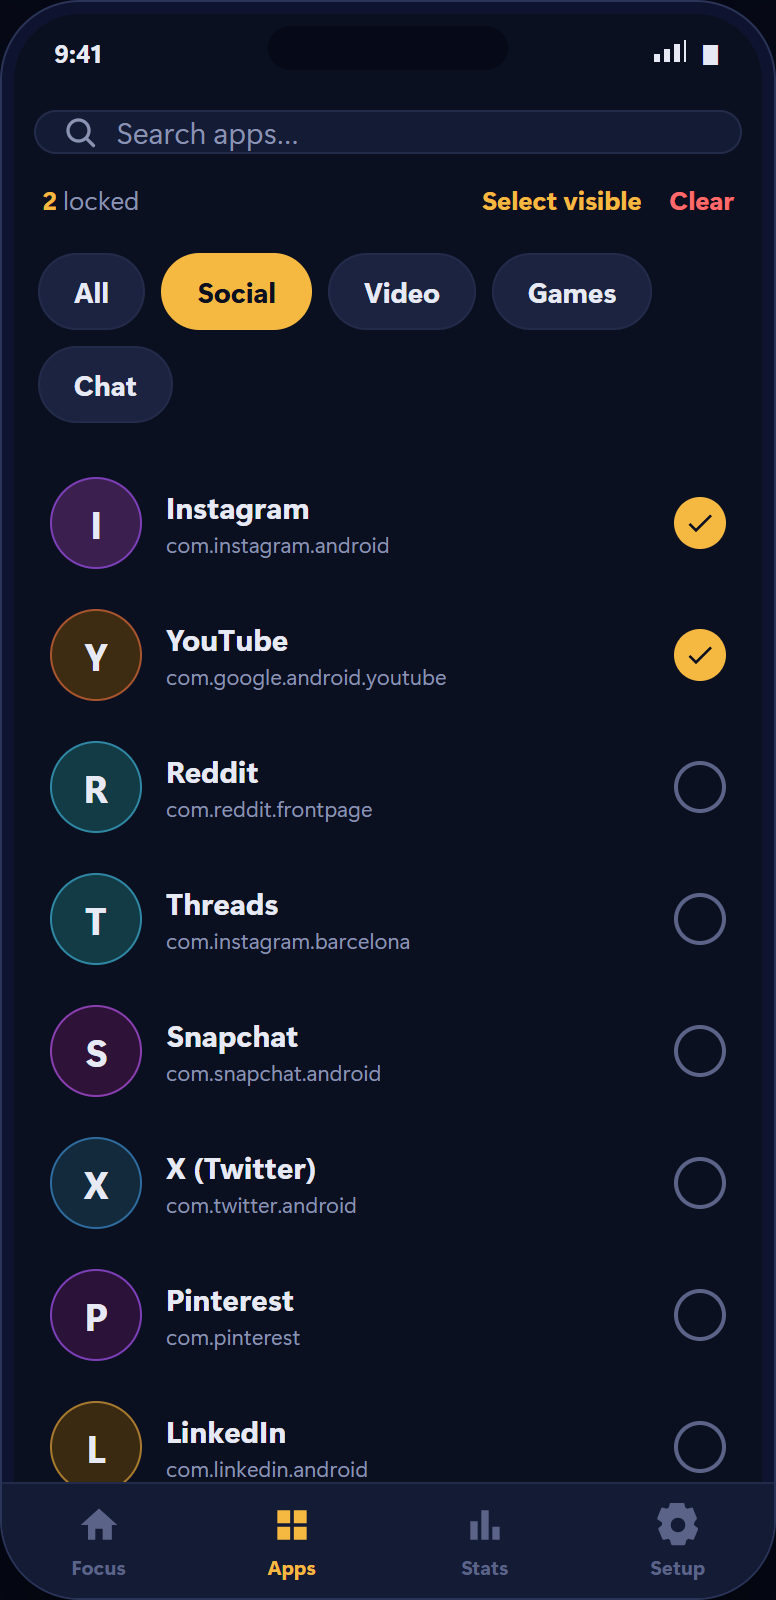
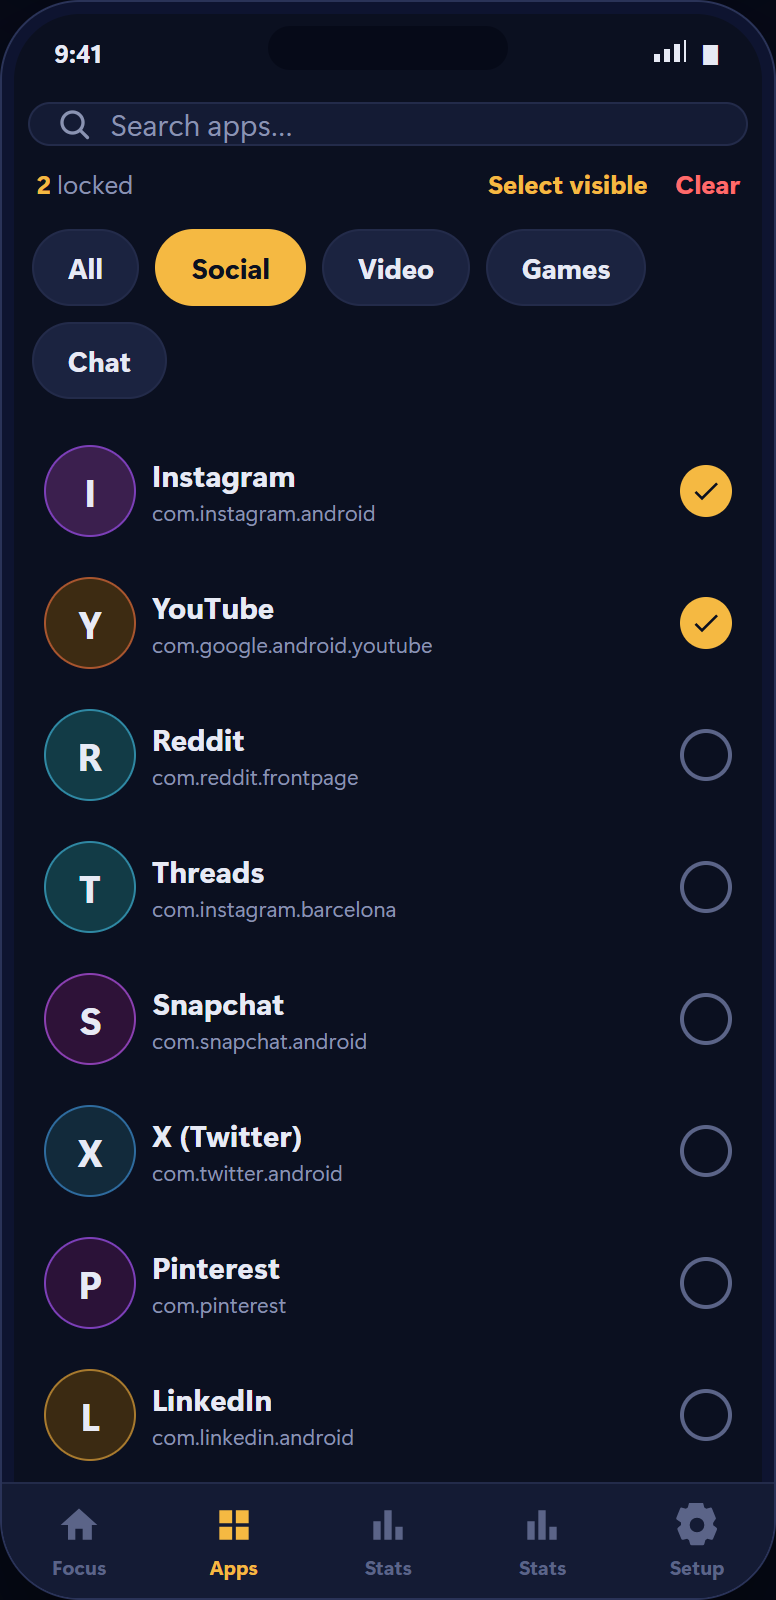
Settings: add Made by section; CI: publish APK to rolling GitHub Release; README: document Releases distribution

diff --git a/docs/mockup/readme-mockups.html b/docs/mockup/readme-mockups.html
@@ -16,19 +16,19 @@
   .notch { position:absolute; top:12px; left:50%; transform:translateX(-50%); width:120px; height:22px; background:#060a18; border-radius:14px; z-index:5; }
   .status { height:40px; flex:0 0 40px; display:flex; align-items:center; justify-content:space-between; padding:10px 26px 0; color:var(--ink); font-size:13px; font-weight:700; }
   .status .right { display:flex; align-items:center; gap:6px; }
-  .body { flex:1; overflow:hidden; padding:14px 16px; display:flex; flex-direction:column; gap:12px; }
+  .body { flex:1; overflow:hidden; padding:10px 13px; display:flex; flex-direction:column; gap:8px; }
   .tabbar { flex:0 0 58px; border-top:1px solid var(--border); background:var(--surface); display:flex; }
   .tab { flex:1; display:flex; flex-direction:column; align-items:center; justify-content:center; gap:3px; color:var(--dim); font-size:10px; font-weight:700; }
   .tab.on { color:var(--amber); }
   .tab svg { fill:currentColor; }
 
-  .brandRow { display:flex; align-items:center; gap:12px; margin-top:2px; }
+  .brandRow { display:flex; align-items:center; gap:8px; margin-top:2px; }
   .brandMark { width:42px; height:42px; border-radius:12px; background:var(--amber); display:flex; align-items:center; justify-content:center; }
   .brand { color:var(--ink); font-size:28px; font-weight:800; flex:1; letter-spacing:.3px; }
   .streak { display:flex; align-items:center; gap:5px; background:var(--surface); border:1px solid var(--border); border-radius:999px; padding:6px 12px; color:var(--amber); font-weight:800; font-size:13px; }
   .tagline { color:var(--muted); font-size:13px; margin-top:-6px; }
 
-  .card { background:var(--surface); border:1px solid var(--border); border-radius:16px; padding:14px; }
+  .card { background:var(--surface); border:1px solid var(--border); border-radius:14px; padding:11px; }
   .statRow { display:flex; align-items:center; padding:16px; }
   .statCol { flex:1; text-align:center; }
   .statVal { color:var(--amber); font-size:24px; font-weight:800; }
@@ -49,7 +49,7 @@
   .stepVal { color:var(--ink); font-size:20px; font-weight:800; min-width:64px; text-align:center; }
   .stepVal small { color:var(--muted); font-size:12px; font-weight:600; }
 
-  .toggleRow { display:flex; align-items:center; gap:12px; padding:10px 0; }
+  .toggleRow { display:flex; align-items:center; gap:8px; padding:10px 0; }
   .toggleRow + .toggleRow { border-top:1px solid var(--border); }
   .tIcon { width:40px; height:40px; border-radius:10px; background:var(--surface2); display:flex; align-items:center; justify-content:center; }
   .tTitle { color:var(--ink); font-weight:700; font-size:15px; }
@@ -65,7 +65,7 @@
   .bSub { color:var(--muted); font-size:12px; margin-top:3px; white-space:nowrap; overflow:hidden; text-overflow:ellipsis; max-width:225px; }
   .chev { margin-left:auto; color:var(--muted); }
 
-  .cta { margin-top:4px; height:62px; border-radius:18px; background:var(--amber); display:flex; align-items:center; justify-content:center; gap:12px; color:#0B1020; font-size:19px; font-weight:900; letter-spacing:2px; }
+  .cta { margin-top:4px; height:62px; border-radius:18px; background:var(--amber); display:flex; align-items:center; justify-content:center; gap:8px; color:#0B1020; font-size:19px; font-weight:900; letter-spacing:2px; }
   .ctaNote { color:var(--dim); text-align:center; font-size:11px; margin-top:-2px; }
 
   .searchBox { display:flex; align-items:center; gap:9px; background:var(--surface); border:1px solid var(--border); border-radius:16px; height:48px; padding:0 13px; color:var(--muted); font-size:15px; }
@@ -75,7 +75,7 @@
   .link { color:var(--amber); font-size:13px; font-weight:700; }
   .link.red { color:var(--red); }
   .appList { flex:1; display:flex; flex-direction:column; gap:2px; }
-  .appRow { display:flex; align-items:center; gap:12px; padding:9px 8px; border-radius:16px; }
+  .appRow { display:flex; align-items:center; gap:8px; padding:9px 8px; border-radius:16px; }
   .avatar { width:46px; height:46px; border-radius:50%; display:flex; align-items:center; justify-content:center; color:var(--ink); font-weight:800; font-size:19px; }
   .aName { color:var(--ink); font-weight:700; font-size:15px; }
   .aPkg { color:var(--muted); font-size:11px; margin-top:1px; }
@@ -96,7 +96,7 @@
   .holdBtn { width:100%; height:56px; border-radius:16px; border:1px solid var(--red); background:#241018; display:flex; align-items:center; justify-content:center; color:var(--red); font-weight:800; font-size:13px; letter-spacing:1.2px; }
   .warn { color:var(--dim); font-size:11px; }
 
-  .pageTitle { color:var(--ink); font-size:30px; font-weight:900; margin-top:4px; }
+  .pageTitle { color:var(--ink); font-size:25px; font-weight:900; margin-top:4px; }
   .grid { display:flex; gap:10px; flex-wrap:wrap; }
   .statCard { flex:1 1 42%; background:var(--surface); border:1px solid var(--border); border-radius:16px; padding:14px 15px; }
   .statCard .v { color:var(--ink); font-size:26px; font-weight:900; margin:6px 0 2px; }
@@ -118,17 +118,21 @@
   .pill { border:1px solid var(--green); color:var(--green); font-size:11px; font-weight:800; border-radius:999px; padding:5px 12px; }
   .pill.amber { border-color:var(--amber); color:var(--amber); }
 
-  .permRow { display:flex; align-items:center; gap:12px; padding:11px 0; }
+  .permRow { display:flex; align-items:center; gap:8px; padding:11px 0; }
   .permRow + .permRow { border-top:1px solid var(--border); }
   .dot { width:10px; height:10px; border-radius:50%; background:var(--green); flex:0 0 10px; }
-  .permTitle { color:var(--ink); font-weight:800; font-size:15px; }
-  .permDesc { color:var(--muted); font-size:12px; margin-top:3px; line-height:1.4; }
+  .permTitle { color:var(--ink); font-weight:800; font-size:14px; }
+  .permDesc { color:var(--muted); font-size:10.5px; margin-top:3px; line-height:1.4; }
   .okBadge { border:1px solid var(--green); color:var(--green); font-size:11px; font-weight:900; border-radius:8px; padding:5px 12px; letter-spacing:1px; margin-left:auto; }
-  .howRow { display:flex; gap:12px; align-items:flex-start; }
-  .howNum { width:24px; height:24px; border-radius:12px; background:var(--surface2); color:var(--amber); font-size:12px; font-weight:800; display:flex; align-items:center; justify-content:center; flex:0 0 24px; }
-  .howText { color:var(--ink); font-size:13px; line-height:1.5; }
-  .fineRow { display:flex; gap:8px; align-items:flex-start; }
-  .fineText { color:var(--muted); font-size:12px; line-height:1.55; }
+  .howRow { display:flex; gap:10px; align-items:flex-start; }
+  .howNum { width:20px; height:20px; border-radius:10px; background:var(--surface2); color:var(--amber); font-size:12px; font-weight:800; display:flex; align-items:center; justify-content:center; flex:0 0 24px; }
+  .howText { color:var(--ink); font-size:11.5px; line-height:1.35; }
+  .fineRow { display:flex; gap:7px; align-items:flex-start; }
+  .aboutRow { display:flex; align-items:center; gap:14px; }
+  .aboutMark { width:46px; height:46px; border-radius:12px; background:var(--amber); display:flex; align-items:center; justify-content:center; flex:0 0 46px; }
+  .aboutTitle { color:var(--ink); font-weight:800; font-size:16px; }
+  .aboutSub { color:var(--muted); font-size:12px; margin-top:2px; }
+  .fineText { color:var(--muted); font-size:11px; line-height:1.4; }
 
   .hero { width:1580px; height:520px; border-radius:28px; background:radial-gradient(1000px 500px at 18% 50%, #1a2348 0%, #0B1020 55%); border:1px solid #263055; display:flex; align-items:center; padding:0 90px; gap:80px; position:relative; overflow:hidden; }
   .heroGlow { position:absolute; right:-140px; top:-200px; width:640px; height:640px; border-radius:50%; background:radial-gradient(circle, rgba(245,185,66,.16) 0%, transparent 65%); }
@@ -194,6 +198,7 @@
     <div class="sect">APPS LOCKED</div>
     <div class="card blockedCard">
       <div class="bIcon"><svg width="22" height="22" viewBox="0 0 24 24" fill="#F5B942"><path d="M4 4h7v7H4zM13 4h7v7h-7zM4 13h7v7H4zM13 13h7v7h-7z"/></svg></div>
+    <div class="tab"><svg width="22" height="22" viewBox="0 0 24 24"><path d="M4 20h4V10H4zM10 20h4V4h-4zM16 20h4v-7h-4z"/></svg>Stats</div>
       <div style="flex:1;min-width:0"><div class="bTitle">2 apps will be locked</div><div class="bSub">Instagram, YouTube</div></div>
       <svg class="chev" width="20" height="20" viewBox="0 0 24 24" fill="none" stroke="#8A93B2" stroke-width="2" stroke-linecap="round"><path d="M9 6l6 6-6 6"/></svg>
     </div>
@@ -204,6 +209,7 @@
   <div class="tabbar">
     <div class="tab on"><svg width="22" height="22" viewBox="0 0 24 24"><path d="M10 20v-6h4v6h5v-8h3L12 3 2 12h4v8z"/></svg>Focus</div>
     <div class="tab"><svg width="22" height="22" viewBox="0 0 24 24"><path d="M4 4h7v7H4zM13 4h7v7h-7zM4 13h7v7H4zM13 13h7v7h-7z"/></svg>Apps</div>
+    <div class="tab"><svg width="22" height="22" viewBox="0 0 24 24"><path d="M4 20h4V10H4zM10 20h4V4h-4zM16 20h4v-7h-4z"/></svg>Stats</div>
     <div class="tab"><svg width="22" height="22" viewBox="0 0 24 24"><path d="M4 20h4V10H4zM10 20h4V4h-4zM16 20h4v-7h-4z"/></svg>Stats</div>
     <div class="tab"><svg width="22" height="22" viewBox="0 0 24 24"><path d="M12 8a4 4 0 1 0 .0 8.001A4 4 0 0 0 12 8zm8.7 4l1.8 1.4a.9.9 0 0 1 .35 1.13l-2 4.9a.9.9 0 0 1-1.13.6l-2.13-.52a7.6 7.6 0 0 1-1 .65l-.6 2.24a.9.9 0 0 1-.88.67h-6a.9.9 0 0 1-.88-.67l-.6-2.24a7.6 7.6 0 0 1-1-.65l-2.13.52a.9.9 0 0 1-1.13-.6l-2-4.9a.9.9 0 0 1 .35-1.13L3.3 12a7.3 7.3 0 0 1 0-1.4l-2.2-1.4a.9.9 0 0 1-.35-1.13l2-4.9a.9.9 0 0 1 1.13-.6l2.13.52a7.6 7.6 0 0 1 1-.65l.6-2.24a.9.9 0 0 1 .88-.67h6a.9.9 0 0 1 .88.67l.6 2.24a7.6 7.6 0 0 1 1 .65l2.13-.52a.9.9 0 0 1 1.13.6l2 4.9a.9.9 0 0 1-.35 1.13L20.7 11c.3.45.3.55 0 1z"/></svg>Setup</div>
   </div>
@@ -232,6 +238,7 @@
   <div class="tabbar">
     <div class="tab"><svg width="22" height="22" viewBox="0 0 24 24"><path d="M10 20v-6h4v6h5v-8h3L12 3 2 12h4v8z"/></svg>Focus</div>
     <div class="tab on"><svg width="22" height="22" viewBox="0 0 24 24"><path d="M4 4h7v7H4zM13 4h7v7h-7zM4 13h7v7H4zM13 13h7v7h-7z"/></svg>Apps</div>
+    <div class="tab"><svg width="22" height="22" viewBox="0 0 24 24"><path d="M4 20h4V10H4zM10 20h4V4h-4zM16 20h4v-7h-4z"/></svg>Stats</div>
     <div class="tab"><svg width="22" height="22" viewBox="0 0 24 24"><path d="M4 20h4V10H4zM10 20h4V4h-4zM16 20h4v-7h-4z"/></svg>Stats</div>
     <div class="tab"><svg width="22" height="22" viewBox="0 0 24 24"><path d="M12 8a4 4 0 1 0 .0 8.001A4 4 0 0 0 12 8zm8.7 4l1.8 1.4a.9.9 0 0 1 .35 1.13l-2 4.9a.9.9 0 0 1-1.13.6l-2.13-.52a7.6 7.6 0 0 1-1 .65l-.6 2.24a.9.9 0 0 1-.88.67h-6a.9.9 0 0 1-.88-.67l-.6-2.24a7.6 7.6 0 0 1-1-.65l-2.13.52a.9.9 0 0 1-1.13-.6l-2-4.9a.9.9 0 0 1 .35-1.13L3.3 12a7.3 7.3 0 0 1 0-1.4l-2.2-1.4a.9.9 0 0 1-.35-1.13l2-4.9a.9.9 0 0 1 1.13-.6l2.13.52a7.6 7.6 0 0 1 1-.65l.6-2.24a.9.9 0 0 1 .88-.67h6a.9.9 0 0 1 .88.67l.6 2.24a7.6 7.6 0 0 1 1 .65l2.13-.52a.9.9 0 0 1 1.13.6l2 4.9a.9.9 0 0 1-.35 1.13L20.7 11c.3.45.3.55 0 1z"/></svg>Setup</div>
   </div>
@@ -286,6 +293,7 @@
   <div class="tabbar">
     <div class="tab"><svg width="22" height="22" viewBox="0 0 24 24"><path d="M10 20v-6h4v6h5v-8h3L12 3 2 12h4v8z"/></svg>Focus</div>
     <div class="tab"><svg width="22" height="22" viewBox="0 0 24 24"><path d="M4 4h7v7H4zM13 4h7v7h-7zM4 13h7v7H4zM13 13h7v7h-7z"/></svg>Apps</div>
+    <div class="tab"><svg width="22" height="22" viewBox="0 0 24 24"><path d="M4 20h4V10H4zM10 20h4V4h-4zM16 20h4v-7h-4z"/></svg>Stats</div>
     <div class="tab on"><svg width="22" height="22" viewBox="0 0 24 24"><path d="M4 20h4V10H4zM10 20h4V4h-4zM16 20h4v-7h-4z"/></svg>Stats</div>
     <div class="tab"><svg width="22" height="22" viewBox="0 0 24 24"><path d="M12 8a4 4 0 1 0 .0 8.001A4 4 0 0 0 12 8zm8.7 4l1.8 1.4a.9.9 0 0 1 .35 1.13l-2 4.9a.9.9 0 0 1-1.13.6l-2.13-.52a7.6 7.6 0 0 1-1 .65l-.6 2.24a.9.9 0 0 1-.88.67h-6a.9.9 0 0 1-.88-.67l-.6-2.24a7.6 7.6 0 0 1-1-.65l-2.13.52a.9.9 0 0 1-1.13-.6l-2-4.9a.9.9 0 0 1 .35-1.13L3.3 12a7.3 7.3 0 0 1 0-1.4l-2.2-1.4a.9.9 0 0 1-.35-1.13l2-4.9a.9.9 0 0 1 1.13-.6l2.13.52a7.6 7.6 0 0 1 1-.65l.6-2.24a.9.9 0 0 1 .88-.67h6a.9.9 0 0 1 .88.67l.6 2.24a7.6 7.6 0 0 1 1 .65l2.13-.52a.9.9 0 0 1 1.13.6l2 4.9a.9.9 0 0 1-.35 1.13L20.7 11c.3.45.3.55 0 1z"/></svg>Setup</div>
   </div>
@@ -293,7 +301,7 @@
 <div class="caption">stats.png — Stats: streak, minutes, temptation leaderboard.</div>
 
 <!-- ============ SCREEN 5: SETUP ============ -->
-<div class="phone" id="shot-setup">
+<div class="phone" id="shot-setup" style="height:1080px">
   <div class="notch"></div>
   <div class="status"><span>9:41</span><span class="right"><svg width="17" height="12" viewBox="0 0 17 12" fill="#E7EAF5"><path d="M1 7h3v4H1zM6 4.5h3V11H6zM11 2h3v9h-3zM16 0h1v11h-1z"/></svg><span style="font-size:12px">▮</span></span></div>
   <div class="body">
@@ -314,11 +322,21 @@
 
     <div class="sect">HONEST FINE PRINT</div>
     <div class="card" style="display:flex;flex-direction:column;gap:9px">
-      <div class="fineRow"><svg width="16" height="16" viewBox="0 0 24 24" fill="none" stroke="#F5B942" stroke-width="2" stroke-linecap="round"><circle cx="12" cy="12" r="9"/><path d="M12 12v4M12 8h.01"/></svg><div class="fineText"><b style="color:var(--ink)">Emergency:</b> Phone app and 911 always stay available — Lockdown never blocks calls.</div></div>
-      <div class="fineRow"><svg width="16" height="16" viewBox="0 0 24 24" fill="none" stroke="#F5B942" stroke-width="2" stroke-linecap="round"><circle cx="12" cy="12" r="9"/><path d="M12 12v4M12 8h.01"/></svg><div class="fineText"><b style="color:var(--ink)">Clock-proof:</b> sessions run on the phone's monotonic clock, so changing the time can't end a duration early.</div></div>
+      <div class="fineRow"><svg width="16" height="16" viewBox="0 0 24 24" fill="none" stroke="#F5B942" stroke-width="2" stroke-linecap="round"><circle cx="12" cy="12" r="9"/><path d="M12 12v4M12 8h.01"/></svg><div class="fineText"><b style="color:var(--ink)">Emergency:</b> Phone app and 911 always stay available - Lockdown never blocks calls.</div></div>
+      <div class="fineRow"><svg width="16" height="16" viewBox="0 0 24 24" fill="none" stroke="#F5B942" stroke-width="2" stroke-linecap="round"><circle cx="12" cy="12" r="9"/><path d="M12 12v4M12 8h.01"/></svg><div class="fineText"><b style="color:var(--ink)">Clock-proof:</b> sessions run on the phone monotonic clock, so changing the time can't end a duration early.</div></div>
       <div class="fineRow"><svg width="16" height="16" viewBox="0 0 24 24" fill="none" stroke="#F5B942" stroke-width="2" stroke-linecap="round"><circle cx="12" cy="12" r="9"/><path d="M12 12v4M12 8h.01"/></svg><div class="fineText"><b style="color:var(--ink)">Strict mode</b> also blocks Settings &amp; Play Store so the lock can't be switched off mid-session.</div></div>
-      <div class="fineRow"><svg width="16" height="16" viewBox="0 0 24 24" fill="none" stroke="#F5B942" stroke-width="2" stroke-linecap="round"><circle cx="12" cy="12" r="9"/><path d="M12 12v4M12 8h.01"/></svg><div class="fineText"><b style="color:var(--ink)">No app is unstoppable.</b> A determined user can disable accessibility in system settings — a commitment device, not a vault.</div></div>
+      <div class="fineRow"><svg width="16" height="16" viewBox="0 0 24 24" fill="none" stroke="#F5B942" stroke-width="2" stroke-linecap="round"><circle cx="12" cy="12" r="9"/><path d="M12 12v4M12 8h.01"/></svg><div class="fineText"><b style="color:var(--ink)">No app is unstoppable.</b> A determined user can disable accessibility in system settings - a commitment device, not a vault.</div></div>
       <div class="fineRow"><svg width="16" height="16" viewBox="0 0 24 24" fill="none" stroke="#F5B942" stroke-width="2" stroke-linecap="round"><circle cx="12" cy="12" r="9"/><path d="M12 12v4M12 8h.01"/></svg><div class="fineText"><b style="color:var(--ink)">On-device only.</b> No account, no cloud, no tracking, no telemetry.</div></div>
+    </div>
+
+    <div class="sect">ABOUT</div>
+    <div class="card">
+      <div class="aboutRow"><div class="aboutMark"><svg width="18" height="18" viewBox="0 0 24 24" fill="#0B1020"><path d="M12 2a5 5 0 0 0-5 5v3H6a2 2 0 0 0-2 2v8a2 2 0 0 0 2 2h12a2 2 0 0 0 2-2v-8a2 2 0 0 0-2-2h-1V7a5 5 0 0 0-5-5z"/></svg></div><div><div class="aboutTitle">Lockdown 1.0.0</div><div class="aboutSub">Focus study lock - on-device only</div></div></div>
+    </div>
+
+    <div class="sect">MADE BY</div>
+    <div class="card">
+      <div class="aboutRow"><div class="aboutMark" style="border-radius:23px;border:1px solid var(--amber)"><span style="color:#0B1020;font-size:22px;font-weight:900">S</span></div><div><div class="aboutTitle">Sagar</div><div class="aboutSub">Solo developer - building tools for distraction-free work</div></div></div>
     </div>
   </div>
   <div class="tabbar">

diff --git a/src/screens/SettingsScreen.js b/src/screens/SettingsScreen.js
@@ -86,6 +86,19 @@ export default function SettingsScreen({ refreshTick }) {
           </View>
         </View>
       </Card>
+
+      <SectionTitle>Made by</SectionTitle>
+      <Card>
+        <View style={styles.aboutRow}>
+          <View style={[styles.aboutMark, styles.madeMark]}>
+            <Text style={styles.madeLetter}>S</Text>
+          </View>
+          <View style={{ flex: 1 }}>
+            <Text style={styles.aboutTitle}>Sagar</Text>
+            <Text style={styles.aboutSub}>Solo developer · building tools for distraction-free work</Text>
+          </View>
+        </View>
+      </Card>
     </ScrollView>
   );
 }
@@ -147,6 +160,8 @@ const styles = StyleSheet.create({
   fineText: { color: C.muted, fontSize: 12, lineHeight: 18, flex: 1 },
   aboutRow: { flexDirection: 'row', alignItems: 'center', gap: 14 },
   aboutMark: { width: 46, height: 46, borderRadius: 12, backgroundColor: C.amber, alignItems: 'center', justifyContent: 'center' },
+  madeMark: { borderRadius: 23, borderWidth: 1, borderColor: C.amber },
+  madeLetter: { color: '#0B1020', fontSize: 22, fontWeight: '900' },
   aboutTitle: { color: C.ink, fontWeight: '800', fontSize: 16 },
   aboutSub: { color: C.muted, fontSize: 12, marginTop: 2 },
 });

diff --git a/README.md b/README.md
@@ -17,7 +17,7 @@
 
 ---
 
-> ⚠ **Known issue — currently distributed APK (build `0850cdb2`):** the release build runs R8 without keep rules for the native module, so `ExpoModulesPackageList` and `expo.modules.lockdown.*` were stripped. The app UI opens, but **the Setup tab's GRANT buttons do nothing** and **START LOCKDOWN** does not work. **Fix:** committed in `ee6b612` (`plugins/withLockdownKeepRules.js`) — included in the next Android build. See [Build & distribution](#build--distribution). Debug builds (`expo run:android`) are unaffected.
+> ✅ **Recommended install:** use the APK from **GitHub Releases** (linked in [Installation](#installation)). The older EAS-built sideloaded APK from build `0850cdb2` is broken (R8 stripped the native module) — do not use it. Release builds from `master` include the fix committed in `ee6b612` (`plugins/withLockdownKeepRules.js`). Debug builds (`expo run:android`) are unaffected either way.
 
 ## Why Lockdown exists
 
@@ -104,12 +104,13 @@ Strict mode additionally adds `com.android.settings`, `com.android.vending` and 
 
 ## Installation
 
-The app is distributed as an installable APK (sideloaded, not Play Store):
+The app is distributed as an installable APK via **GitHub Releases** (sideloaded, not Play Store):
 
-1. Open the latest build on the EAS builds page (see [Build & distribution](#build--distribution)).
-2. Tap the **Application Archive URL** to download the `.apk`, or from a PC:
+1. Go to the Releases page: https://github.com/Sagar0810k/lockdown/releases
+2. Download **`Lockdown-1.0.0.apk`** from the latest release (rolling release, built automatically from the latest `master` by GitHub Actions). Or from a PC:
    ```sh
-   adb install lockdown.apk
+   curl -L -o Lockdown-1.0.0.apk https://github.com/Sagar0810k/lockdown/releases/download/v1.0.0/Lockdown-1.0.0.apk
+   adb install Lockdown-1.0.0.apk
    ```
 3. Open the app → **Setup** tab → grant the two permissions (Accessibility, Do Not Disturb) → pick apps in **Apps** → **START LOCKDOWN**.
 
@@ -122,6 +123,11 @@ npm ci
 npx expo prebuild --no-install          # generate android/ from CNG
 npx eas build -p android --profile preview   # produces the installable APK
 ```
+
+**GitHub Releases:** every push to `master` triggers the [Build APK](https://github.com/Sagar0810k/lockdown/actions/workflows/build-apk.yml) workflow, which builds the APK and publishes it automatically to the rolling release:
+
+- Releases: https://github.com/Sagar0810k/lockdown/releases
+- Direct asset: https://github.com/Sagar0810k/lockdown/releases/download/v1.0.0/Lockdown-1.0.0.apk
 
 Project links:
 
